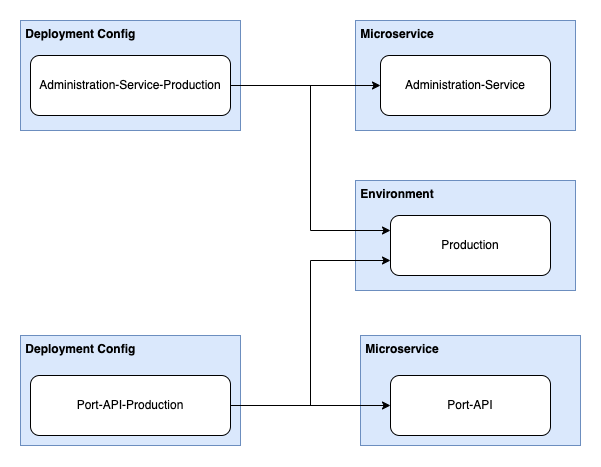
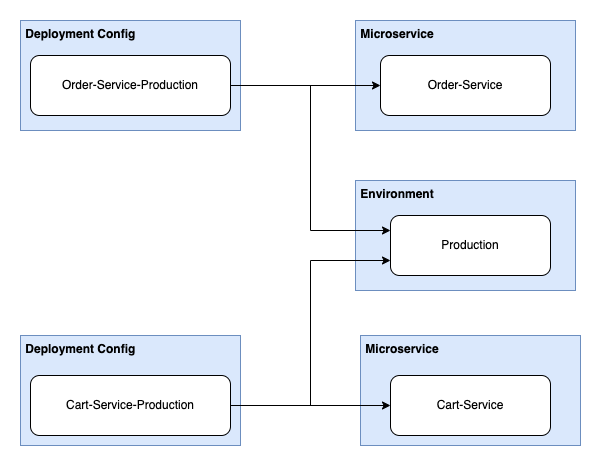
Update direction example to generic services

diff --git a/docs/tutorials/search-in-port.md b/docs/tutorials/search-in-port.md
@@ -250,12 +250,12 @@ In addition, we have the following Entities:
 
 ```text showLineNumbers
 Deployment Configs:
-- Administration-Service-Production
-- Port-API-Production
+- Order-Service-Production
+- Cart-Service-Production
 
 Microservices:
-- Administration Service
-- Port-API
+- Order Service
+- Cart Service
 
 Environments:
 - Production
@@ -264,11 +264,11 @@ Environments:
 And the following Relations:
 
 ```text showLineNumbers
-Administration-Service-Production -> Administration-Service
-Administration-Service-Production -> Production
+Order-Service-Production -> Order-Service
+Order-Service-Production -> Production
 
-Port-API-Production -> Port-API
-Port-API-Production -> Production
+Cart-Service-Production -> Cart-Service
+Cart-Service-Production -> Production
 ```
 
 By looking at the resulting graph layout, we can also map the directions:
@@ -278,13 +278,13 @@ By looking at the resulting graph layout, we can also map the directions:
 - To search for Entities which the source depends on - use `"direction": "upstream"`;
 - To search for Entities which depend on the source - use `"direction": "downstream"`;
 
-In the example shown above, if we want to get the `Microservice` and `Environment` that _Administration-Service-Production_ depends on, the search rule would be:
+In the example shown above, if we want to get the `Microservice` and `Environment` that _Order-Service-Production_ depends on, the search rule would be:
 
 ```json showLineNumbers
 {
   "operator": "relatedTo",
   "blueprint": "DeploymentConfig",
-  "value": "Administration-Service-Production",
+  "value": "Order-Service-Production",
   "direction": "upstream"
 }
 ```
@@ -292,7 +292,7 @@ In the example shown above, if we want to get the `Microservice` and `Environmen
 And the result would be:
 
 <details>
-<summary>Administration-Service-Production upstream related Entities</summary>
+<summary>Order-Service-Production upstream related Entities</summary>
 
 ```json showLineNumbers
 {
@@ -300,14 +300,14 @@ And the result would be:
   "matchingBlueprints": ["Microservice", "Environment"],
   "entities": [
     {
-      "identifier": "Administration-Service",
-      "title": "Administration-Service",
+      "identifier": "Order-Service",
+      "title": "Order-Service",
       "blueprint": "Microservice",
       "properties": {
         "on-call": "mor@getport.io",
         "language": "Python",
-        "slack-notifications": "https://slack.com/Administration-Service",
-        "launch-darkly": "https://launchdarkly.com/Administration-Service"
+        "slack-notifications": "https://slack.com/Order-Service",
+        "launch-darkly": "https://launchdarkly.com/Order-Service"
       },
       "relations": {},
       "createdAt": "2022-11-17T15:54:20.432Z",
@@ -360,11 +360,11 @@ And the result would be:
   "matchingBlueprints": ["DeploymentConfig"],
   "entities": [
     {
-      "identifier": "Administration-Service-Production",
-      "title": "Administration-Service-Production",
+      "identifier": "Order-Service-Production",
+      "title": "Order-Service-Production",
       "blueprint": "DeploymentConfig",
       "properties": {
-        "url": "https://github.com/port-labs/administration-service",
+        "url": "https://github.com/port-labs/order-service",
         "config": {
           "encryption": "SHA256"
         },
@@ -375,7 +375,7 @@ And the result would be:
         ]
       },
       "relations": {
-        "relatedMicroservice": "Administration-Service",
+        "relatedMicroservice": "Order-Service",
         "relatedEnv": "Production"
       },
       "createdAt": "2022-11-17T15:55:55.591Z",
@@ -384,11 +384,11 @@ And the result would be:
       "updatedBy": "auth0|62ab380295b34240aa511cdb"
     },
     {
-      "identifier": "Port-API-Production",
-      "title": "Port-API-Production",
+      "identifier": "Cart-Service-Production",
+      "title": "Cart-Service-Production",
       "blueprint": "DeploymentConfig",
       "properties": {
-        "url": "https://github.com/port-labs/port-api",
+        "url": "https://github.com/port-labs/cart-service",
         "config": {
           "foo": "bar"
         },
@@ -399,7 +399,7 @@ And the result would be:
         ]
       },
       "relations": {
-        "relatedMicroservice": "Port-API",
+        "relatedMicroservice": "Cart-Service",
         "relatedEnv": "Production"
       },
       "createdAt": "2022-11-17T15:55:10.714Z",
